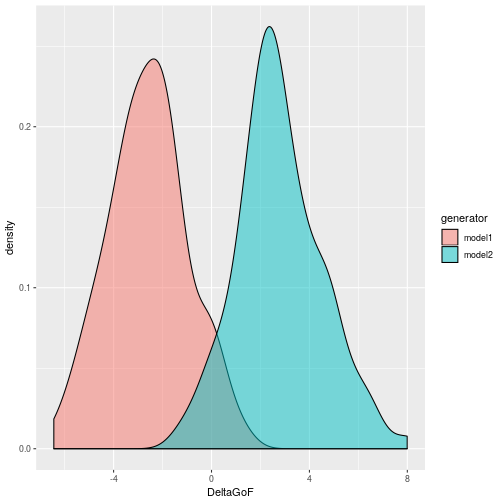
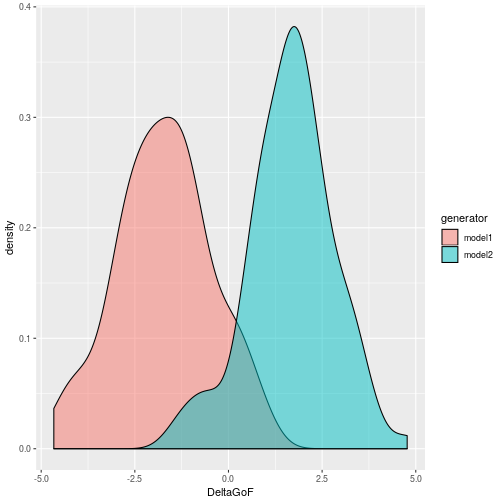
learning to use Rmd

diff --git a/README.md b/README.md
@@ -77,12 +77,12 @@ Here, `args1` and `args2` hold arguments passed to `myfitfun`, while `genargs1` 
 ```r
 head(myboot)
 #>   model1_p model2_p rep generator     GoF1     GoF2   DeltaGoF
-#> 1        1       NA   1    model1 28.34446 31.82117 -3.4767105
-#> 2        1       NA   2    model1 20.41371 24.82730 -4.4135849
-#> 3        1       NA   3    model1 20.58190 26.22336 -5.6414614
-#> 4        1       NA   4    model1 19.99064 24.80944 -4.8187993
-#> 5        1       NA   5    model1 23.56303 22.92738  0.6356444
-#> 6        1       NA   6    model1 21.42545 25.52795 -4.1025049
+#> 1        1       NA   1    model1 26.66185 28.37756 -1.7157118
+#> 2        1       NA   2    model1 28.58196 29.04322 -0.4612682
+#> 3        1       NA   3    model1 23.22502 22.85188  0.3731393
+#> 4        1       NA   4    model1 26.98613 27.99137 -1.0052453
+#> 5        1       NA   5    model1 24.29595 25.13197 -0.8360243
+#> 6        1       NA   6    model1 24.45492 24.35391  0.1010160
 ```
 
 We can easily produce a nice plot of the `DeltaGoF` distributions:
@@ -94,6 +94,16 @@ print(g)
 ```
 
 ![plot of chunk mybootplot](man/figures/README-mybootplot-1.png)
+
+Since the definition of `DeltaGoF` is `GoF1 - GoF2`, and since we have defined `GoF` as the residual sum of squares of the regression (see our definition of `myfitfun` above), so that smaller is better, we find that model 1 tends to fit data generated by itself better than model 2, and vice versa (as expected). Now, which model is the better explanation of the original `mockdata`? To answer this, we first need the value of `DeltaGoF` for the original data:
+
+
+```r
+emp <- pbcm::empirical.GoF(mockdata, fun1=myfitfun, fun2=myfitfun, args1=list(p=1), args2=list(p=2))
+print(emp)
+#>       GoF1     GoF2  DeltaGoF
+#> 1 20.63991 23.53877 -2.898859
+```
 
 
 
